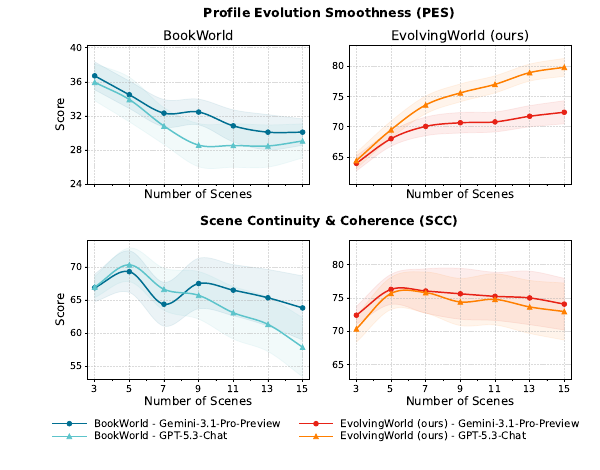
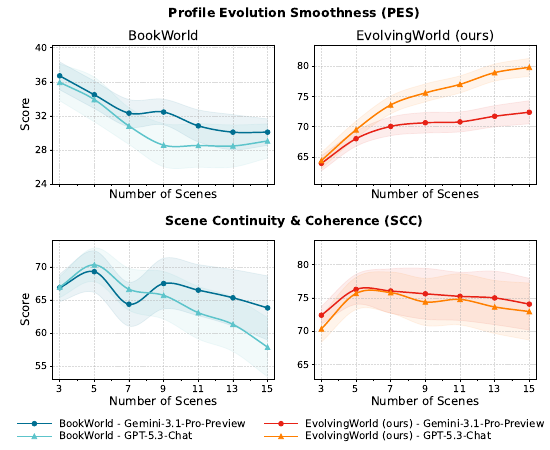
Tighten and correct paper figure crops

diff --git a/docs/index.html b/docs/index.html
@@ -50,14 +50,14 @@
         <article><h3>Open-Schema States</h3><p>The system infers relevant character and world dimensions from each book instead of forcing diverse stories into fixed slots.</p></article>
         <article><h3>Multi-Timescale Evolution</h3><p>A hidden tracker stores weak or emerging evidence before it is sufficient to update slower-changing profile dimensions.</p></article>
       </div>
-      <figure class="paper-figure wide top-gap"><img src="figure-4-open-schema.png" alt="Word clouds of open-schema character and world state dimensions"><figcaption>Figure 4. State dimensions discovered under the open-schema design across the 57-book corpus.</figcaption></figure>
+      <figure class="paper-figure wide top-gap"><img src="figure-4-open-schema.png?v=2" alt="Word clouds of open-schema character and world state dimensions"><figcaption>Figure 4. State dimensions discovered under the open-schema design across the 57-book corpus.</figcaption></figure>
     </section>
 
     <section class="section soft" id="results">
       <div class="wrap">
         <div class="section-title"><span>03</span><div><h2>Long-Horizon Results</h2><p>EvolvingWorld mitigates the degradation of profile evolution smoothness and scene continuity as trajectories become longer.</p></div></div>
         <div class="result-layout">
-          <figure class="paper-figure"><img src="figure-3-long-horizon.png" alt="Length-wise comparison with BookWorld"><figcaption>Figure 3. Length-wise comparison with BookWorld on PES and SCC.</figcaption></figure>
+          <figure class="paper-figure"><img src="figure-3-long-horizon.png?v=2" alt="Length-wise comparison with BookWorld"><figcaption>Figure 3. Length-wise comparison with BookWorld on PES and SCC.</figcaption></figure>
           <div class="result-text">
             <div class="metric"><strong>59.87</strong><span>World Model average</span></div>
             <p>The EvolvingWorld-trained 32B Qwen model surpasses Claude-4.6-Sonnet and Gemini-2.5-Flash on World Model evaluation.</p>
@@ -70,10 +70,10 @@
     <section class="section wrap" id="data">
       <div class="section-title"><span>04</span><div><h2>Dataset and Benchmark</h2><p>57 books, 138,596 supervised training samples, 222 test snapshots, and trajectory-level evaluation across 20 metrics.</p></div></div>
       <div class="data-grid">
-        <figure class="paper-figure data-main"><img src="figure-6-data.png" alt="Extracted data statistics"><figcaption>Figure 6. Extracted data statistics at four granularity levels.</figcaption></figure>
+        <figure class="paper-figure data-main"><img src="figure-6-data.png?v=2" alt="Extracted data statistics"><figcaption>Figure 6. Extracted data statistics at four granularity levels.</figcaption></figure>
         <div class="data-side">
           <figure class="paper-figure"><img src="figure-5-genres.png" alt="Genre distribution"><figcaption>Figure 5. Genre distribution of the 57 books.</figcaption></figure>
-          <figure class="paper-figure"><img src="figure-7-tokens.png" alt="Token length distribution"><figcaption>Figure 7. Token length distribution for the seven trainable tasks.</figcaption></figure>
+          <figure class="paper-figure"><img src="figure-7-tokens.png?v=2" alt="Token length distribution"><figcaption>Figure 7. Token length distribution for the seven trainable tasks.</figcaption></figure>
         </div>
       </div>
     </section>
